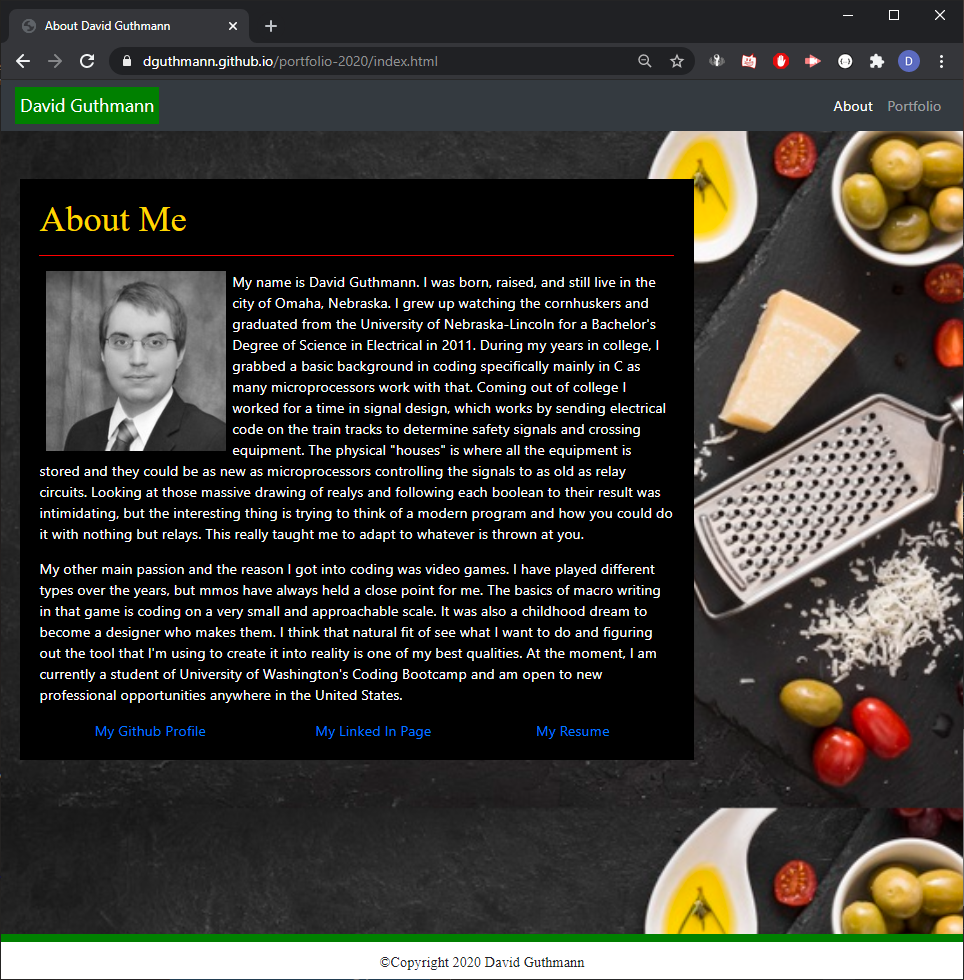
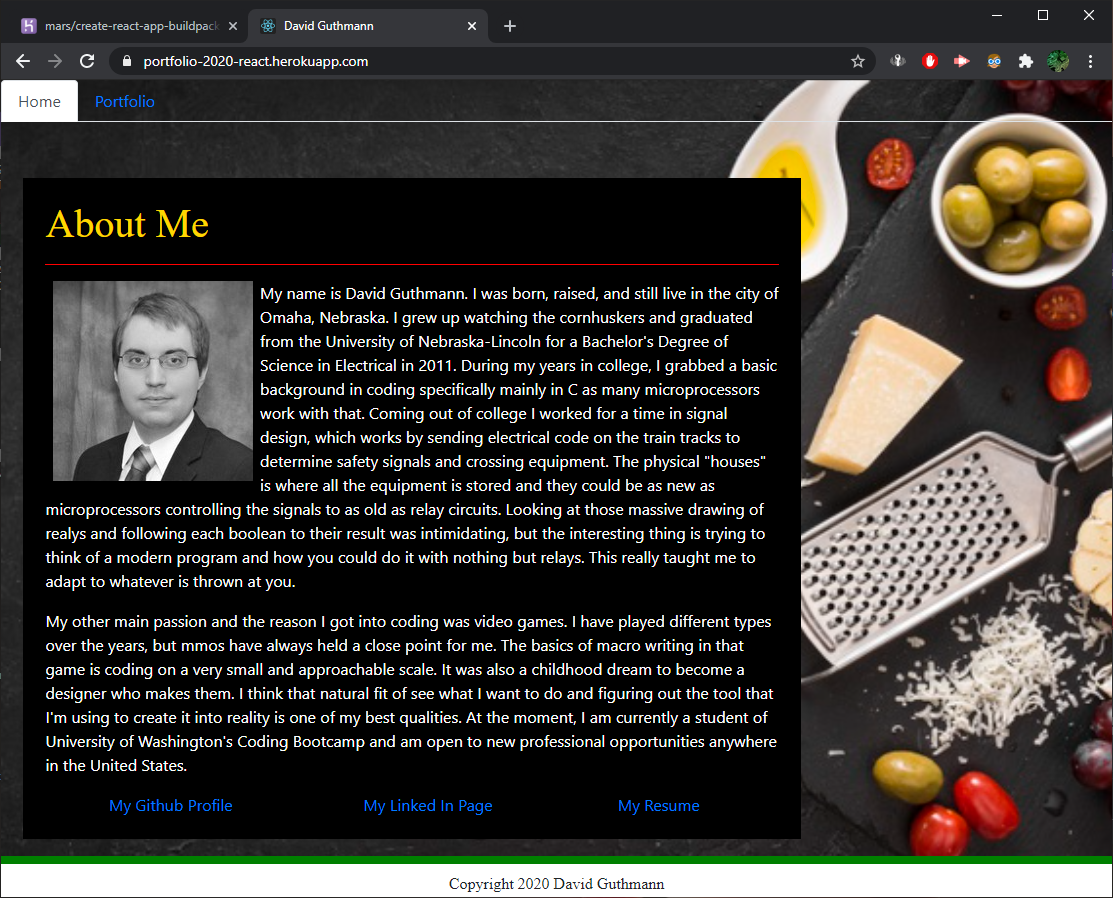
adding screenshots of live, updating live

diff --git a/README.md b/README.md
@@ -2,7 +2,7 @@
 ### Author: David Guthmann
 
 github: https://github.com/Dguthmann/  
-livesite: https://dguthmann.github.io/portfolio-2020/
+livesite: https://portfolio-2020-react.herokuapp.com/
 
 ## List of Contents
 
@@ -60,9 +60,9 @@ This is updated to use the react framework.
 
 ## Screenshot of Website
 
-![Site Screenshot](images/screenshotindex.png)  
+![Site Screenshot](public/images/screenshotindex.png)  
   
-![Site Screenshot](images/screenshotport.png)
+![Site Screenshot](public/images/screenshotport.png)
 
 ## Resources Used
 
